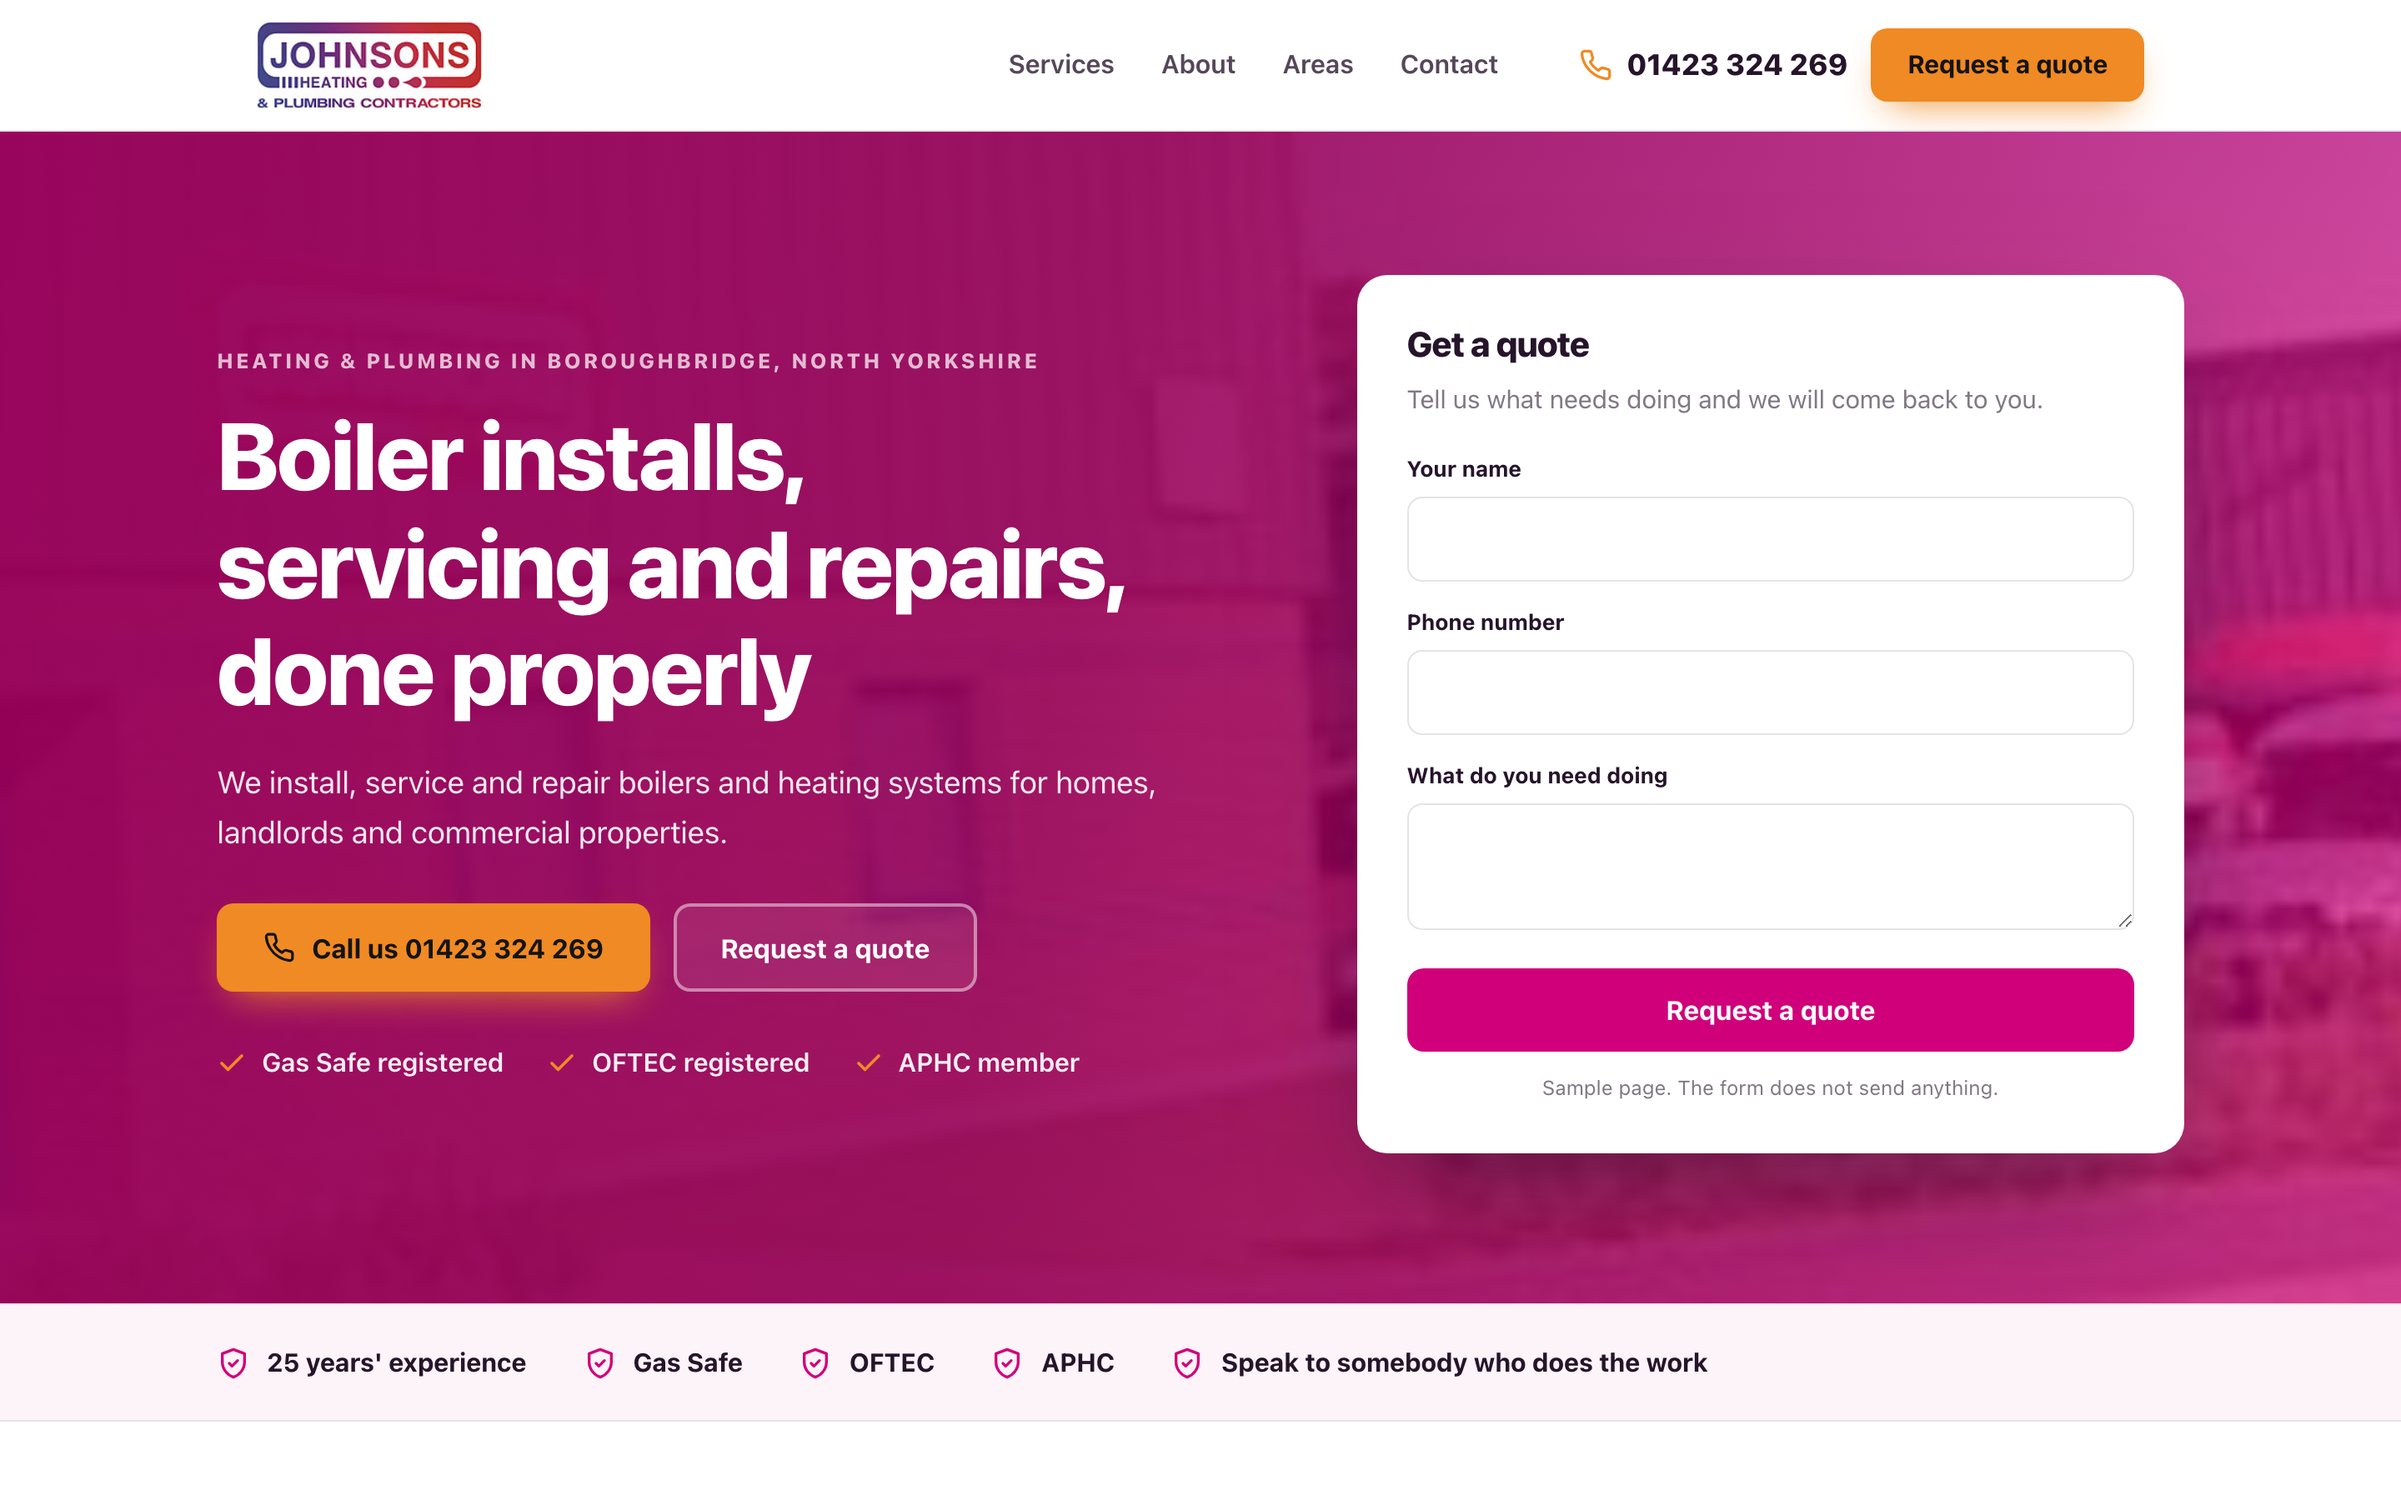
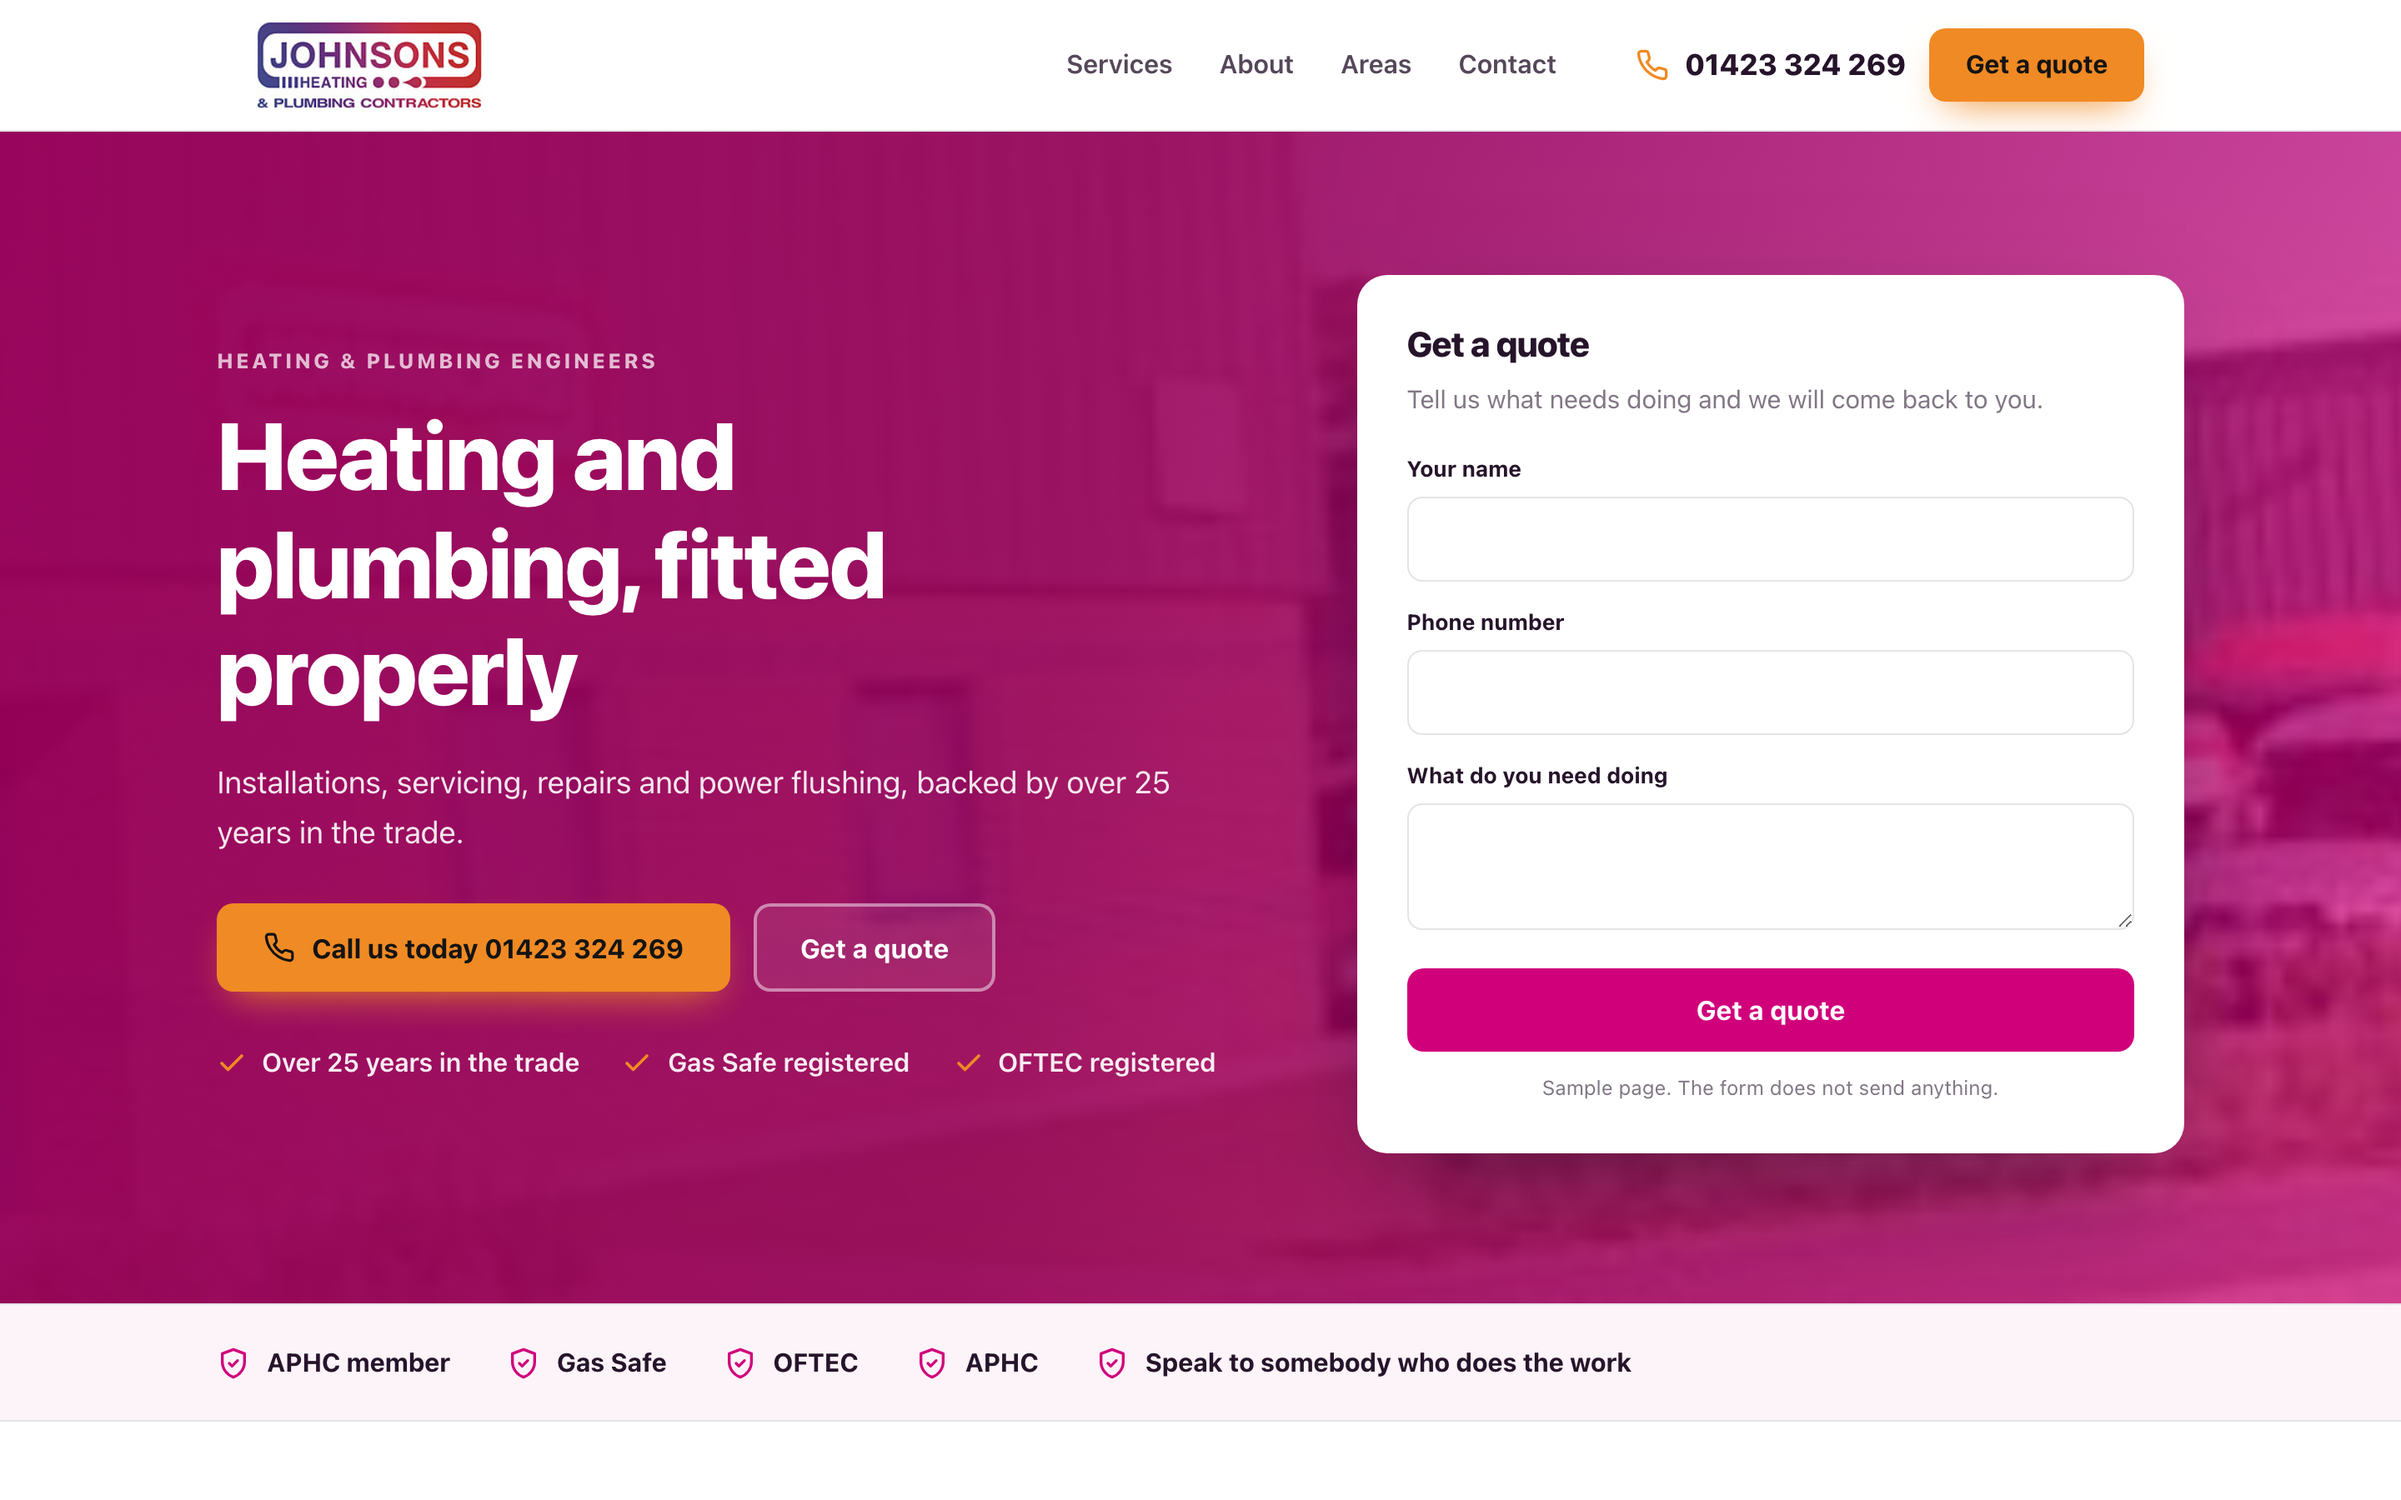
Sample homepage for Johnsons Heating & Plumbing

diff --git a/docs/f3c313b730/index.html b/docs/f3c313b730/index.html
@@ -4,12 +4,12 @@
 <meta charset="utf-8">
 <meta name="viewport" content="width=device-width, initial-scale=1">
 <meta name="robots" content="noindex,nofollow">
-<title>Home Button sample homepage</title>
-<meta name="description" content="We install, service and repair boilers and heating systems for homes, landlords and commercial properties.">
+<title>Johnsons Heating &amp; Plumbing sample homepage</title>
+<meta name="description" content="Installations, servicing, repairs and power flushing, backed by over 25 years in the trade.">
 <link rel="canonical" href="https://markygff.github.io/aso-mockups/f3c313b730/">
 <meta property="og:type" content="website">
-<meta property="og:title" content="Home Button sample homepage">
-<meta property="og:description" content="We install, service and repair boilers and heating systems for homes, landlords and commercial properties.">
+<meta property="og:title" content="Johnsons Heating &amp; Plumbing sample homepage">
+<meta property="og:description" content="Installations, servicing, repairs and power flushing, backed by over 25 years in the trade.">
 <meta property="og:url" content="https://markygff.github.io/aso-mockups/f3c313b730/">
 <meta property="og:image" content="https://www.johnsonsheating.co.uk/Johnsons Heating &amp; Plumbing_files/slideshow1.jpg"><style>
 :root{
@@ -119,30 +119,30 @@ p{margin:0}
 <header class="header">
   <div class="wrap header-in">
     <div class="brand">
-<img src="https://www.johnsonsheating.co.uk/Johnsons Heating &amp; Plumbing_files/johnsons_logo.jpg" alt="Home Button logo">    </div>
+<img src="https://www.johnsonsheating.co.uk/Johnsons Heating &amp; Plumbing_files/johnsons_logo.jpg" alt="Johnsons Heating &amp; Plumbing logo">    </div>
     <nav class="nav">
       <span>Services</span><span>About</span><span>Areas</span><span>Contact</span>
     </nav>
     <div class="header-cta">
       <span class="tel"><svg viewBox="0 0 24 24" fill="none" stroke="currentColor" stroke-width="2" stroke-linecap="round" stroke-linejoin="round" aria-hidden="true"><path d="M22 16.9v3a2 2 0 0 1-2.2 2 19.8 19.8 0 0 1-8.6-3.1 19.5 19.5 0 0 1-6-6 19.8 19.8 0 0 1-3.1-8.7A2 2 0 0 1 4.1 2h3a2 2 0 0 1 2 1.7c.1 1 .4 1.9.7 2.8a2 2 0 0 1-.5 2.1L8.1 9.9a16 16 0 0 0 6 6l1.3-1.2a2 2 0 0 1 2.1-.5c.9.3 1.8.6 2.8.7a2 2 0 0 1 1.7 2z"/></svg><span>01423 324 269</span></span>
-      <span class="btn btn-accent">Request a quote</span>
+      <span class="btn btn-accent">Get a quote</span>
     </div>
   </div>
 </header>
 
 <section class="hero">
-  <div class="hero-bg"><img src="https://www.johnsonsheating.co.uk/Johnsons Heating &amp; Plumbing_files/slideshow1.jpg" alt="Home Button at work" width="1600" height="900"></div>
+  <div class="hero-bg"><img src="https://www.johnsonsheating.co.uk/Johnsons Heating &amp; Plumbing_files/slideshow1.jpg" alt="Johnsons Heating &amp; Plumbing at work" width="1600" height="900"></div>
   <div class="wrap hero-in">
     <div>
-      <p class="eyebrow">Heating &amp; Plumbing in Boroughbridge, North Yorkshire</p>
-      <h1>Boiler installs, servicing and repairs, done properly</h1>
-      <p class="hero-sub">We install, service and repair boilers and heating systems for homes, landlords and commercial properties.</p>
+      <p class="eyebrow">Heating &amp; plumbing engineers</p>
+      <h1>Heating and plumbing, fitted properly</h1>
+      <p class="hero-sub">Installations, servicing, repairs and power flushing, backed by over 25 years in the trade.</p>
       <div class="hero-actions">
-        <span class="btn btn-accent"><svg viewBox="0 0 24 24" fill="none" stroke="currentColor" stroke-width="2" stroke-linecap="round" stroke-linejoin="round" aria-hidden="true"><path d="M22 16.9v3a2 2 0 0 1-2.2 2 19.8 19.8 0 0 1-8.6-3.1 19.5 19.5 0 0 1-6-6 19.8 19.8 0 0 1-3.1-8.7A2 2 0 0 1 4.1 2h3a2 2 0 0 1 2 1.7c.1 1 .4 1.9.7 2.8a2 2 0 0 1-.5 2.1L8.1 9.9a16 16 0 0 0 6 6l1.3-1.2a2 2 0 0 1 2.1-.5c.9.3 1.8.6 2.8.7a2 2 0 0 1 1.7 2z"/></svg>Call us 01423 324 269</span>
-        <span class="btn btn-ghost">Request a quote</span>
+        <span class="btn btn-accent"><svg viewBox="0 0 24 24" fill="none" stroke="currentColor" stroke-width="2" stroke-linecap="round" stroke-linejoin="round" aria-hidden="true"><path d="M22 16.9v3a2 2 0 0 1-2.2 2 19.8 19.8 0 0 1-8.6-3.1 19.5 19.5 0 0 1-6-6 19.8 19.8 0 0 1-3.1-8.7A2 2 0 0 1 4.1 2h3a2 2 0 0 1 2 1.7c.1 1 .4 1.9.7 2.8a2 2 0 0 1-.5 2.1L8.1 9.9a16 16 0 0 0 6 6l1.3-1.2a2 2 0 0 1 2.1-.5c.9.3 1.8.6 2.8.7a2 2 0 0 1 1.7 2z"/></svg>Call us today 01423 324 269</span>
+        <span class="btn btn-ghost">Get a quote</span>
       </div>
       <ul class="hero-bullets">
-<li><svg viewBox="0 0 24 24" fill="none" stroke="currentColor" stroke-width="2.4" stroke-linecap="round" stroke-linejoin="round" aria-hidden="true"><path d="M20 6 9 17l-5-5"/></svg><span>Gas Safe registered</span></li><li><svg viewBox="0 0 24 24" fill="none" stroke="currentColor" stroke-width="2.4" stroke-linecap="round" stroke-linejoin="round" aria-hidden="true"><path d="M20 6 9 17l-5-5"/></svg><span>OFTEC registered</span></li><li><svg viewBox="0 0 24 24" fill="none" stroke="currentColor" stroke-width="2.4" stroke-linecap="round" stroke-linejoin="round" aria-hidden="true"><path d="M20 6 9 17l-5-5"/></svg><span>APHC member</span></li>      </ul>
+<li><svg viewBox="0 0 24 24" fill="none" stroke="currentColor" stroke-width="2.4" stroke-linecap="round" stroke-linejoin="round" aria-hidden="true"><path d="M20 6 9 17l-5-5"/></svg><span>Over 25 years in the trade</span></li><li><svg viewBox="0 0 24 24" fill="none" stroke="currentColor" stroke-width="2.4" stroke-linecap="round" stroke-linejoin="round" aria-hidden="true"><path d="M20 6 9 17l-5-5"/></svg><span>Gas Safe registered</span></li><li><svg viewBox="0 0 24 24" fill="none" stroke="currentColor" stroke-width="2.4" stroke-linecap="round" stroke-linejoin="round" aria-hidden="true"><path d="M20 6 9 17l-5-5"/></svg><span>OFTEC registered</span></li>      </ul>
     </div>
     <div class="quote-card">
       <h3>Get a quote</h3>
@@ -150,7 +150,7 @@ p{margin:0}
       <div class="field"><label>Your name</label><input type="text" disabled></div>
       <div class="field"><label>Phone number</label><input type="tel" disabled></div>
       <div class="field"><label>What do you need doing</label><textarea disabled></textarea></div>
-      <span class="btn btn-primary">Request a quote</span>
+      <span class="btn btn-primary">Get a quote</span>
       <p class="sample-note">Sample page. The form does not send anything.</p>
     </div>
   </div>
@@ -158,7 +158,7 @@ p{margin:0}
 
 <div class="strip">
   <div class="wrap strip-in">
-    <div class="strip-item"><svg viewBox="0 0 24 24" fill="none" stroke="currentColor" stroke-width="2" stroke-linecap="round" stroke-linejoin="round" aria-hidden="true"><path d="M12 2 4 5v6c0 5 3.4 9.4 8 11 4.6-1.6 8-6 8-11V5z"/><path d="m9 12 2 2 4-4"/></svg><span>25 years&#39; experience</span></div>
+    <div class="strip-item"><svg viewBox="0 0 24 24" fill="none" stroke="currentColor" stroke-width="2" stroke-linecap="round" stroke-linejoin="round" aria-hidden="true"><path d="M12 2 4 5v6c0 5 3.4 9.4 8 11 4.6-1.6 8-6 8-11V5z"/><path d="m9 12 2 2 4-4"/></svg><span>APHC member</span></div>
     <div class="strip-item"><svg viewBox="0 0 24 24" fill="none" stroke="currentColor" stroke-width="2" stroke-linecap="round" stroke-linejoin="round" aria-hidden="true"><path d="M12 2 4 5v6c0 5 3.4 9.4 8 11 4.6-1.6 8-6 8-11V5z"/><path d="m9 12 2 2 4-4"/></svg><span>Gas Safe</span></div>
     <div class="strip-item"><svg viewBox="0 0 24 24" fill="none" stroke="currentColor" stroke-width="2" stroke-linecap="round" stroke-linejoin="round" aria-hidden="true"><path d="M12 2 4 5v6c0 5 3.4 9.4 8 11 4.6-1.6 8-6 8-11V5z"/><path d="m9 12 2 2 4-4"/></svg><span>OFTEC</span></div>
     <div class="strip-item"><svg viewBox="0 0 24 24" fill="none" stroke="currentColor" stroke-width="2" stroke-linecap="round" stroke-linejoin="round" aria-hidden="true"><path d="M12 2 4 5v6c0 5 3.4 9.4 8 11 4.6-1.6 8-6 8-11V5z"/><path d="m9 12 2 2 4-4"/></svg><span>APHC</span></div>
@@ -170,29 +170,29 @@ p{margin:0}
   <div class="wrap">
     <div class="services-head">
       <p class="eyebrow">What we do</p>
-      <h2>Home Button, your area</h2>
-      <p>We install, service and repair boilers and heating systems for homes, landlords and commercial properties.</p>
+      <h2>Johnsons Heating &amp; Plumbing, your area</h2>
+      <p>Installations, servicing, repairs and power flushing, backed by over 25 years in the trade.</p>
     </div>
     <div class="grid">
       <article class="card">
         <div class="icon"><svg viewBox="0 0 24 24" fill="none" stroke="currentColor" stroke-width="2" stroke-linecap="round" stroke-linejoin="round" aria-hidden="true"><path d="M14.7 6.3a4 4 0 0 0 5.3 5.3l-8 8a3 3 0 0 1-4.2-4.2z"/><path d="m14.7 6.3 3-3"/></svg></div>
         <h3>Installations</h3>
-        <p>We install central heating, heat pumps, solar panels and hot water systems.</p>
+        <p>Central heating, heat pumps, solar and plumbing systems for homes and businesses of any size.</p>
       </article>
       <article class="card">
         <div class="icon"><svg viewBox="0 0 24 24" fill="none" stroke="currentColor" stroke-width="2" stroke-linecap="round" stroke-linejoin="round" aria-hidden="true"><path d="M13 2 4 14h7l-1 8 9-12h-7z"/></svg></div>
         <h3>Servicing</h3>
-        <p>Our engineers service boilers and gas installations for all major makes.</p>
+        <p>We service all makes of boiler, including Worcester Bosch, Vaillant and Baxi.</p>
       </article>
       <article class="card">
         <div class="icon"><svg viewBox="0 0 24 24" fill="none" stroke="currentColor" stroke-width="2" stroke-linecap="round" stroke-linejoin="round" aria-hidden="true"><path d="M3 10.5 12 3l9 7.5"/><path d="M5 9.5V21h14V9.5"/><path d="M10 21v-6h4v6"/></svg></div>
         <h3>Small Repairs</h3>
-        <p>Our small repairs team handles jobs from tap and WC repairs to cylinder replacements.</p>
+        <p>From tap and WC repairs to hot water cylinder replacements.</p>
       </article>
       <article class="card">
         <div class="icon"><svg viewBox="0 0 24 24" fill="none" stroke="currentColor" stroke-width="2" stroke-linecap="round" stroke-linejoin="round" aria-hidden="true"><path d="M4 20 15 9"/><path d="m14 4 6 6-3 3-6-6z"/><path d="m3 15 6 6"/></svg></div>
         <h3>Power Flushing</h3>
-        <p>We power flush sludged up heating systems to improve efficiency and cut running costs.</p>
+        <p>Clears sludged up systems that can cut heating efficiency by up to 25 percent.</p>
       </article>
     </div>
   </div>
@@ -200,7 +200,7 @@ p{margin:0}
 
 <footer class="footer">
   <div class="wrap footer-in">
-    <span>Sample built for Home Button from your public website. Not live. Tell us and we delete it.</span>
+    <span>Sample built for Johnsons Heating &amp; Plumbing from your public website. Not live. Tell us and we delete it.</span>
     <span>johnsonsheating.co.uk</span>
   </div>
 </footer>
